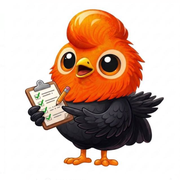
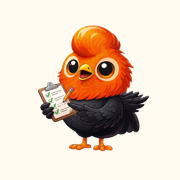
Gallito con fondo realmente transparente + íconos PWA con fondo cream
Antes el PNG del gallito tenía un cuadrado blanco como fondo. Lo
disimulábamos con mix-blend-mode: multiply, lo que funcionaba sobre
crema pero NO sobre blanco puro (donde 255×255 = 255, igual visible).

Ahora:
- img/gallito-pip.png reprocesado con Pillow: distancia al blanco
  puro en RGB → mapeada linealmente a un alpha suave (dist<18 →
  transparente, dist>70 → opaco, ramp en el medio para no dejar
  bordes mellados). Los píxeles blancos del fondo son ahora alpha=0.
- mix-blend-mode: multiply removido de .gallito-hero, .gallito-avatar,
  .chat-header-gallito y .gate-gallito — ya no hace falta y de paso
  los colores naranja del gallito vuelven a estar 100% saturados.
- Íconos PWA (icon-192, icon-512, apple-touch-icon) regenerados con
  un fondo crema sólido + 10% de padding, así en la pantalla de
  inicio del celular el gallito se ve centrado y enmarcado, no
  flotando sobre el wallpaper del usuario.
- SW cache bump: gallito-v3 → v4. Los usuarios con la PWA instalada
  reciben el PNG nuevo en la próxima visita.

Changed region(s): [[0.1389, 0.0278, 0.9167, 0.9444]]

diff --git a/reporte/index.html b/reporte/index.html
@@ -118,9 +118,6 @@
       display: block;
       animation: bobble 4s ease-in-out infinite;
       filter: drop-shadow(0 8px 24px rgba(243,147,0,0.20));
-      /* Blend the asset's white background into whatever sits behind it,
-         so it doesn't look like a sticker pasted on cream. */
-      mix-blend-mode: multiply;
     }
     @keyframes bobble {
       0%, 100% { transform: translateY(0) rotate(-1deg); }
@@ -440,7 +437,6 @@
       width: 80px;
       height: 80px;
       margin: 0 auto 16px;
-      mix-blend-mode: multiply;
     }
     .gate-school {
       font-family: 'Cormorant Garamond', serif;
@@ -517,7 +513,6 @@
       width: 44px;
       height: 44px;
       flex-shrink: 0;
-      mix-blend-mode: multiply;
     }
     .chat-header-info { flex: 1; min-width: 0; }
     .chat-header-name {
@@ -875,7 +870,6 @@
       margin-top: 2px;
       align-self: flex-start;
       transition: filter 0.25s ease, transform 0.25s ease;
-      mix-blend-mode: multiply;
     }
     .msg-row.streaming .gallito-avatar {
       animation: avatar-pulse 1.4s ease-in-out infinite;

diff --git a/reporte/sw.js b/reporte/sw.js
@@ -7,7 +7,7 @@
 //
 // Bump the CACHE_VERSION on every shell update so old assets get evicted.
 
-const CACHE_VERSION = 'gallito-v3';
+const CACHE_VERSION = 'gallito-v4';
 
 const SHELL = [
   './',
